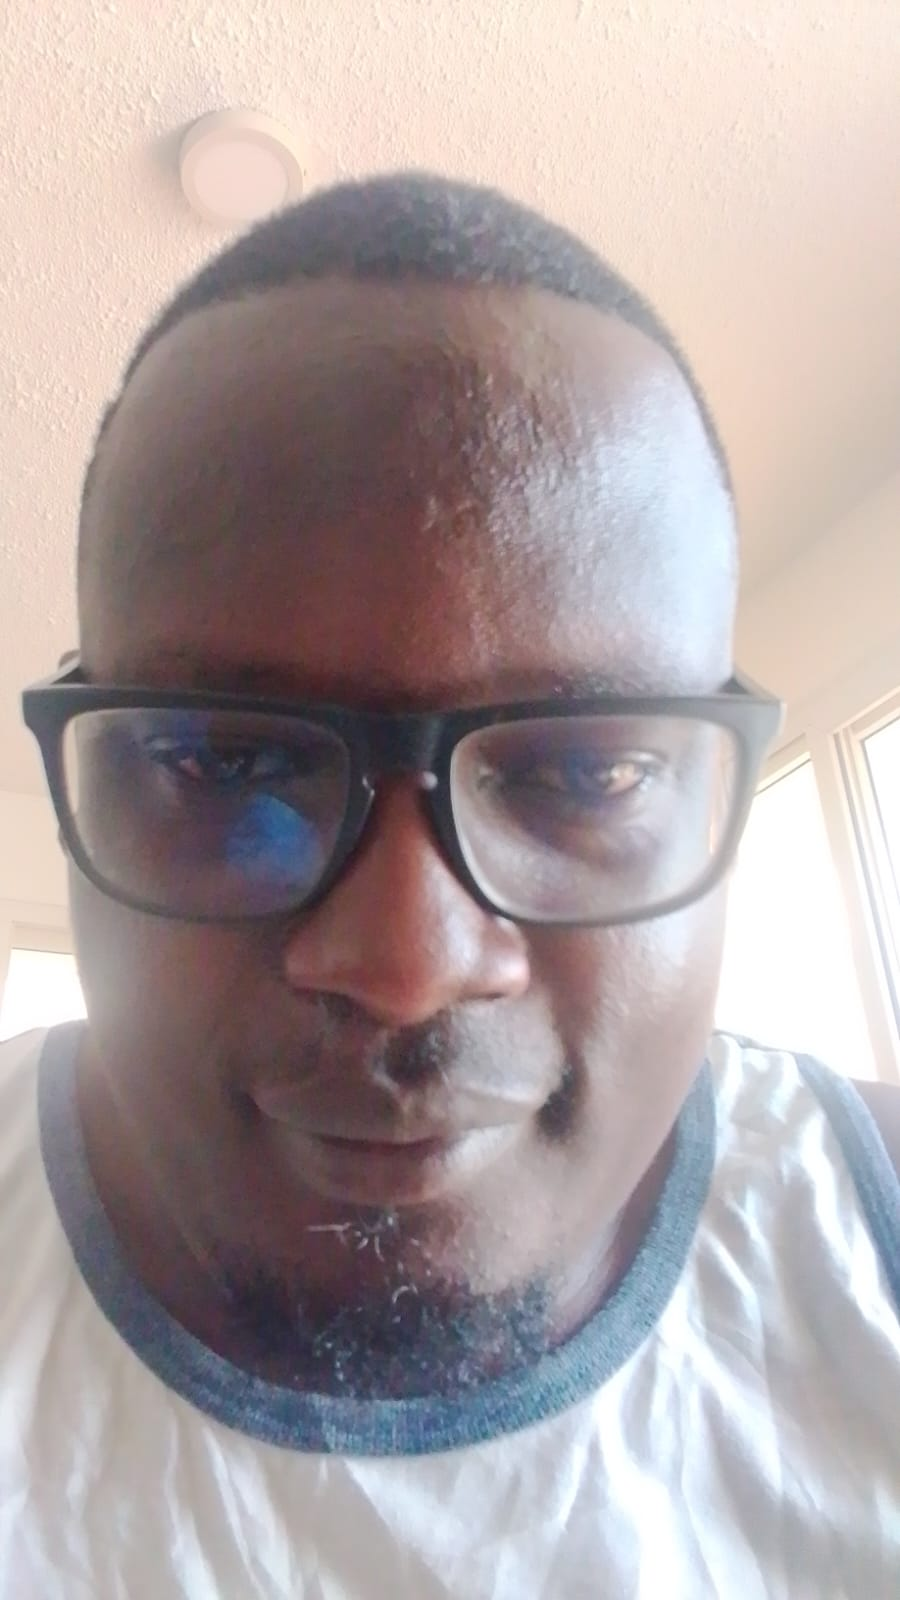
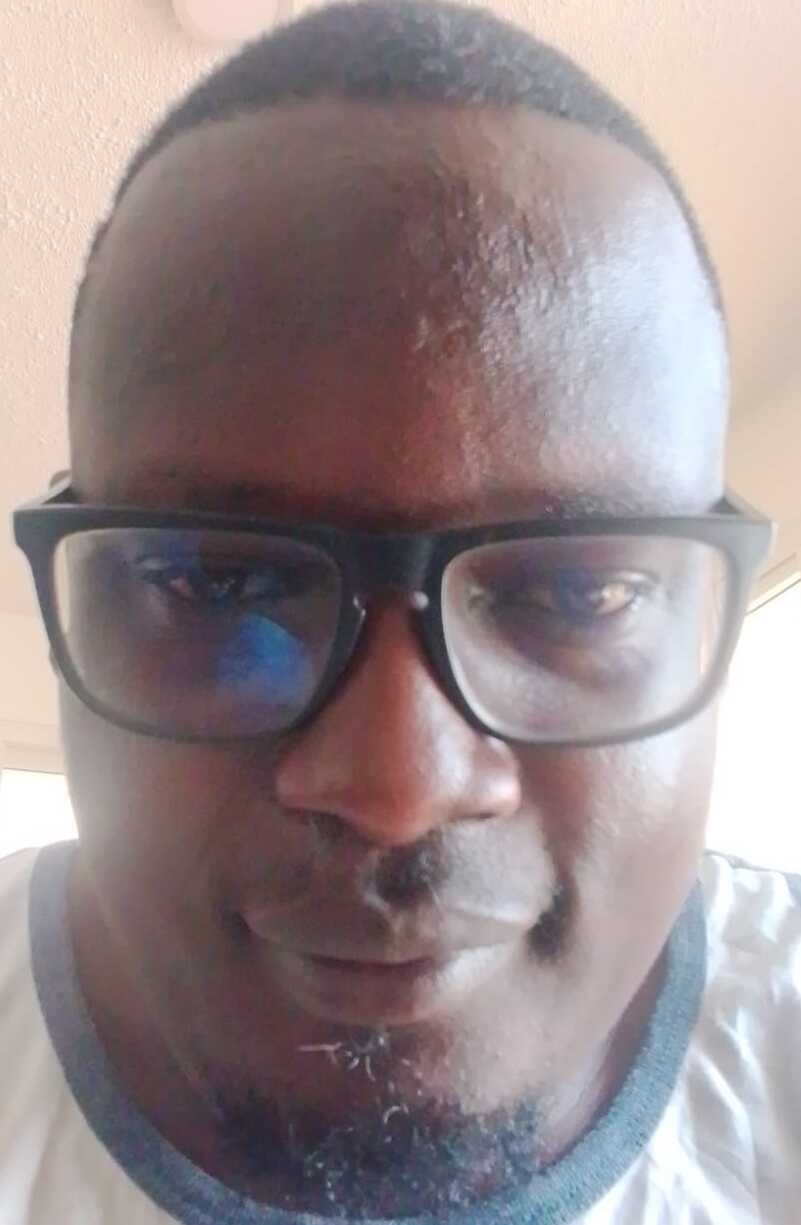
Add image

diff --git a/src/data/content.js b/src/data/content.js
@@ -20,6 +20,7 @@ import beril from '../assets/members/beril.jpg'
 import moses from '../assets/members/Moses.jpg'
 import wuodanna from '../assets/members/wuodanna.jpg'
 import jackline from '../assets/members/jackline.jpg'
+import faith from '../assets/members/faith.jpg'
 
 // gallery
 import cert from '../assets/gallery/group-certificate.jpg'
@@ -224,8 +225,7 @@ export const branchMembers = [
     name: 'Faith Achieng',
     role: 'Member',
     committee: false,
-    passportImage:
-      'https://images.unsplash.com/photo-1583863788434-e58a36330cf0?w=400&h=533&fit=crop',
+    passportImage: faith,
   },
   {
     id: 'TSG-023',
